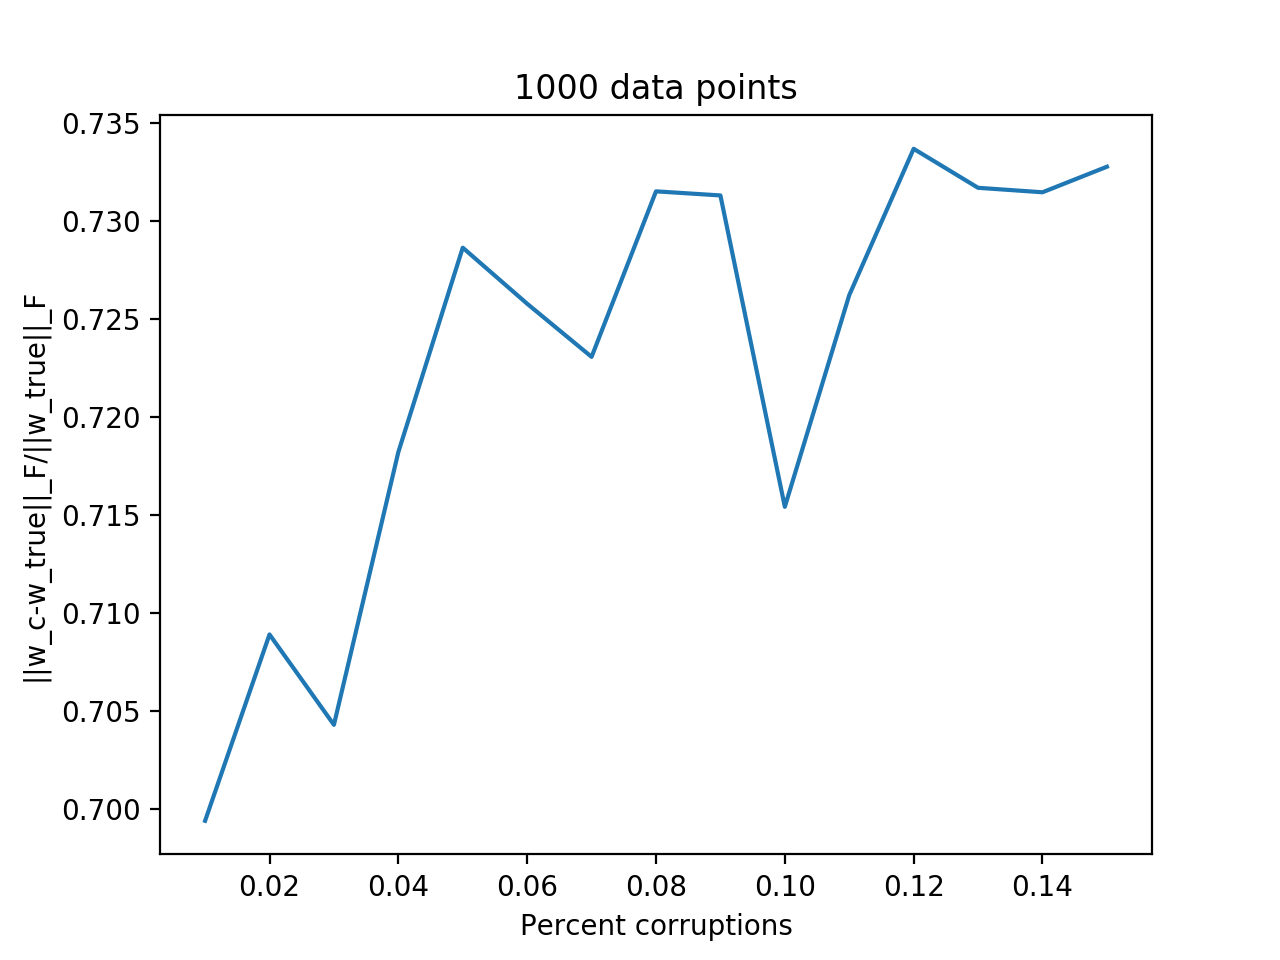
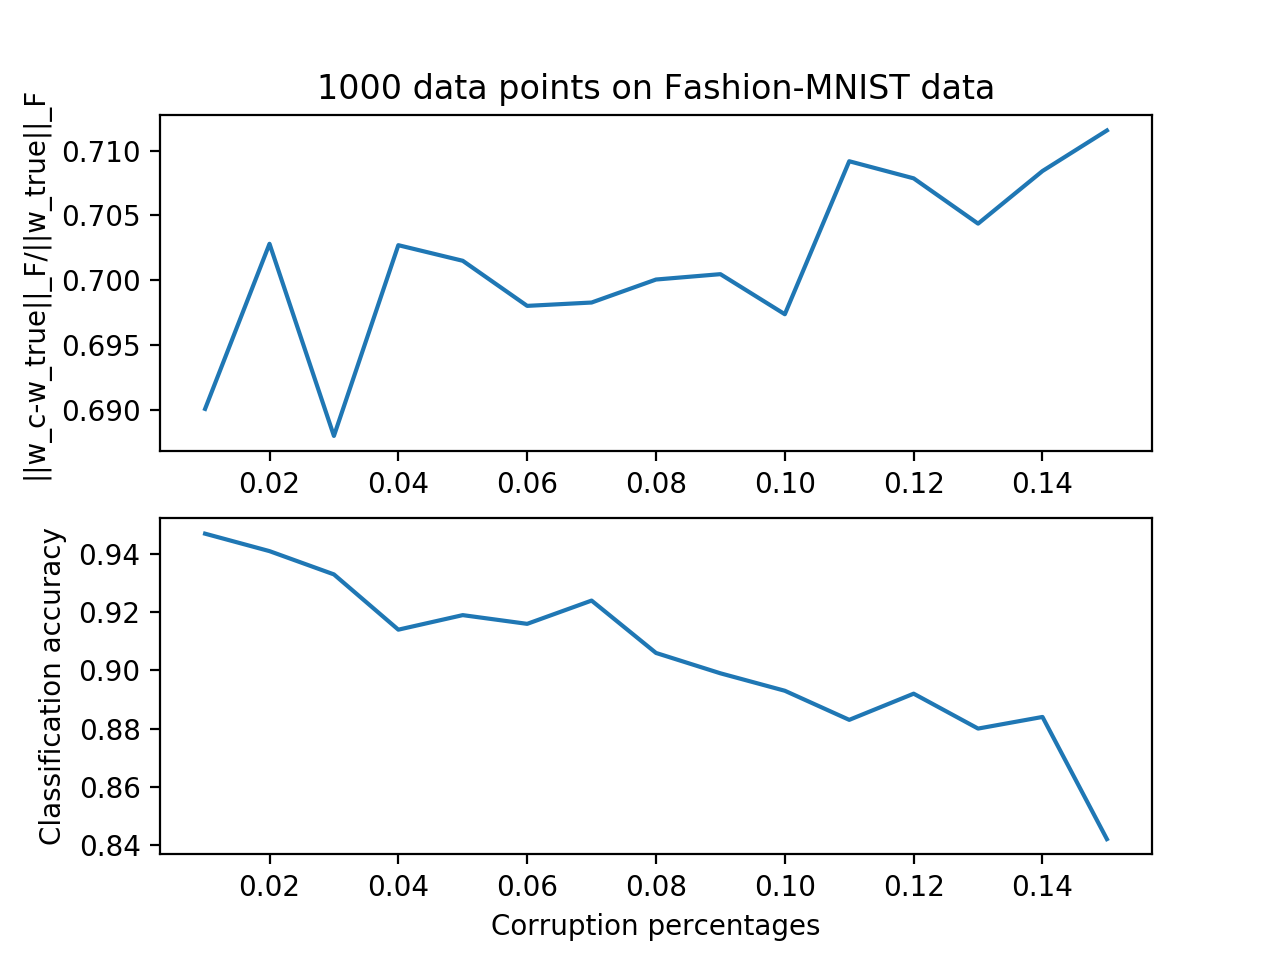
Upload new FMNIST results

diff --git a/Framework1/NumericalExperiments/FashionTest.py b/Framework1/NumericalExperiments/FashionTest.py
@@ -38,33 +38,44 @@ print('Accuracy: ', sum(pred == test_label)/len(pred))
 # Save "true" values for comparison
 w_true = all_data_train.w
 b_true = all_data_train.b
-b_true_mean = b_true - np.mean(b_true)
+#b_true_mean = b_true - np.mean(b_true)
 
-w_true = np.concatenate((w_true, np.array([b_true_mean])), axis=0)
+w_true = np.concatenate((w_true, np.array([b_true])), axis=0)
 
 w_seq = []
 corruptions_seq = []
+accuracy = []
+num_test = 100
 
-for i in range(1, 16):
+for i in range(1, 21):
 
-    y_corrupt_ind = np.random.randint(len(test_label[0:100]), size=math.floor((i * 0.01) * len(test_label[0:10000])))
+    y_corrupt_ind = np.random.randint(len(test_label[0:num_test]), size=math.floor((i * 0.01) * len(test_label[0:num_test])))
     corruptions = np.random.randint(10, size=len(y_corrupt_ind))
-    y_corrupt = test_label[0:100].copy()
+    y_corrupt = test_label[0:num_test].copy()
     y_corrupt[y_corrupt_ind] = corruptions
 
-    corruption_log_reg = MulticlassLogReg(test_data[0:100], y_corrupt, np.random.rand(test_data.shape[1], 10), np.random.rand(10), T=1000, tol=0.5, alpha=0.25, lam1=1e-3, lam2=0.1, num_classes=10)
+    corruption_log_reg = MulticlassLogReg(test_data[0:num_test], y_corrupt, np.random.rand(test_data.shape[1], 10), np.random.rand(10), T=1000, tol=0.5, alpha=0.25, lam1=1e-3, lam2=0.1, num_classes=10)
     corruption_log_reg.optimization()
 
-    w = np.concatenate((corruption_log_reg.w, np.array([corruption_log_reg.b - np.mean(b_true)])), axis=0)
+    w = np.concatenate((corruption_log_reg.w, np.array([corruption_log_reg.b - np.mean(corruption_log_reg.b)])), axis=0)
 
     norm = np.linalg.norm(w - w_true, ord='fro')/np.linalg.norm(w_true, ord='fro')
 
+    pred, prob = all_data_train.predict(test_data[0:num_test], corruption_log_reg.w, corruption_log_reg.b)
+
+    acc = sum(pred == test_label[0:num_test]) / len(pred)
+
     corruptions_seq.append(i * 0.01)
     w_seq.append(norm)
+    accuracy.append(acc)
 
 
-fig = plt.figure()
+plt.subplot(211)
 plt.plot(corruptions_seq, w_seq)
-plt.title(str(len(test_label[0:100])) + ' data points')
-plt.xlabel('Percent corruptions')
+plt.title(str(len(test_label[0:num_test])) + ' data points on Fashion-MNIST data')
 plt.ylabel('||w_c-w_true||_F/||w_true||_F')
+plt.subplot(212)
+plt.plot(corruptions_seq, accuracy)
+plt.ylabel('Classification accuracy')
+plt.xlabel('Corruption percentages')
+plt.show()
